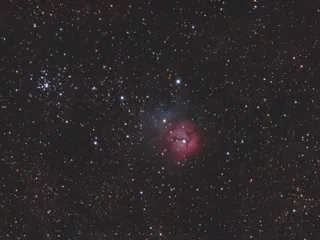
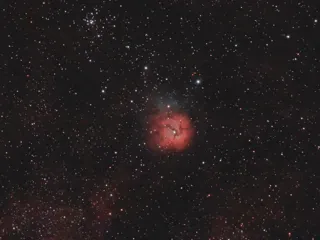
M20, M21

diff --git a/messier/index.html b/messier/index.html
@@ -117,6 +117,10 @@
             const match = document.baseURI.match(/^.*\/#M(\d+)$/);
             //console.log('Key pressed:', '<' + event.key + '>', match ? match[1] : 'not match');
             switch (event.key) {
+              case 'Escape':
+                document.getElementById('top').scrollIntoView();
+                navigate('/messier/');
+                break;
               case 'ArrowUp':
                 document.getElementById('top').scrollIntoView();
                 break;
@@ -194,6 +198,9 @@
           const handleKeyDown = (event) => {
             //console.log('Key pressed:', '<' + event.key + '>');
             switch (event.key) {
+              case 'Escape':
+                navigate('/messier/');
+                break;
               case 'ArrowUp':
                 homeRef.current.click();
                 break;